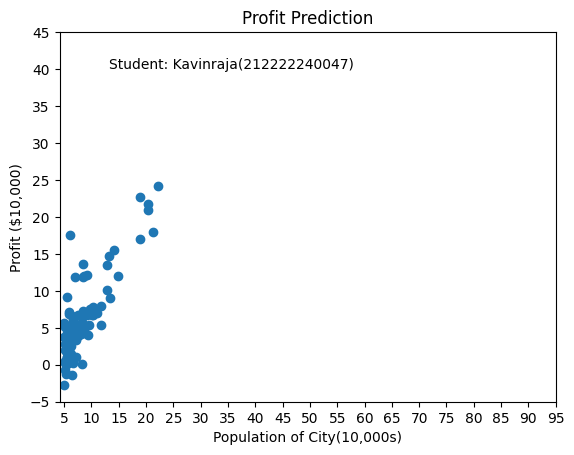
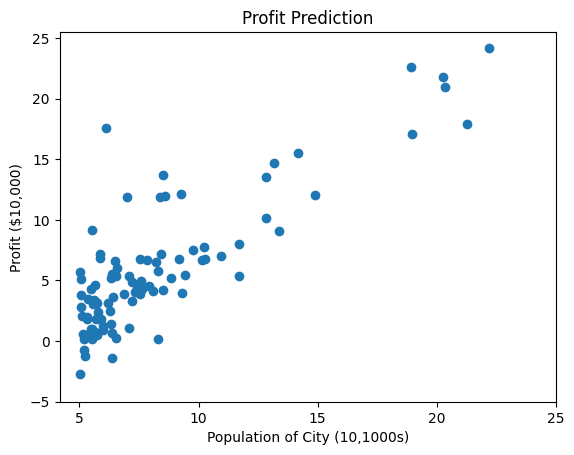
updated

diff --git a/README.md b/README.md
@@ -8,109 +8,157 @@ To write a program to predict the profit of a city using the linear regression m
 2. Anaconda – Python 3.7 Installation / Jupyter notebook
 
 ## Algorithm
-1.Import the required library and read the dataframe.
 
-2.Write a function computeCost to generate the cost function.
+1. Import the standard python libraries for Gradient design.
+2. Introduce the variables needed to execute the function.
+3. Use function for the representation of the graph.
+4. Using for loop apply the concept using the formulae.
+5. Execute the program and plot the graph.
+6. Predict and execute the values for the given conditions.
 
-3.Perform iterations og gradient steps with learning rate.
-
-4.Plot the Cost function using Gradient Descent and generate the required graph.
 
 ## Program:
 ```py
-# Developed by: Kavinraja D
- #RegisterNumber:  212222240047
+## Program to implement the linear regression using gradient descent.
+## Developed by: Thiyagarajan A
+## RegisterNumber:  212222240110
 
-import pandas as pd
 import numpy as np
 import matplotlib.pyplot as plt
-data=pd.read_csv("ex1.txt",header=None)
+import pandas as pd
+
+data=pd.read_csv("/content/ex1.txt",header=None)
+
+print("Profit prediction graph:")
 plt.scatter(data[0],data[1])
 plt.xticks(np.arange(5,30,step=5))
 plt.yticks(np.arange(-5,30,step=5))
-plt.xlabel("Population of City(10,000s)")
+plt.xlabel("Population of City (10,1000s)")
 plt.ylabel("Profit ($10,000)")
 plt.title("Profit Prediction")
 
 def computeCost(X,y,theta):
-    m=len(y) 
-    h=X.dot(theta) 
-    square_err=(h-y)**2
-    return 1/(2*m)*np.sum(square_err) 
+  """
+  Take in a numpy array X,y,theta and generate the cost function in a linear regression model
+  """
+  m=len(y) #length of the training data
+  h=X.dot(theta) #hypothesis
+  square_err=(h-y)**2
 
-data_n=data.values
+  return 1/(2*m) * np.sum(square_err) #returning
+  
+  data_n=data.values
 m=data_n[:,0].size
 X=np.append(np.ones((m,1)),data_n[:,0].reshape(m,1),axis=1)
 y=data_n[:,1].reshape(m,1)
 theta=np.zeros((2,1))
-computeCost(X,y,theta) 
+
+print("Compute cost value:")
+computeCost(X,y,theta) #Call the function
 
 def gradientDescent(X,y,theta,alpha,num_iters):
-    m=len(y)
-    J_history=[] #empty list
-    for i in range(num_iters):
-        predictions=X.dot(theta)
-        error=np.dot(X.transpose(),(predictions-y))
-        descent=alpha*(1/m)*error
-        theta-=descent
-        J_history.append(computeCost(X,y,theta))
-    return theta,J_history
+  """
+  Take in numpy array X,y and theta and update theta by taking number with learning rate of alpha
 
+  return theta and the list of the cost of theta during each iteration
+  """
+  m=len(y)
+  J_history=[]
+
+  for i in range(num_iters):
+    predictions=X.dot(theta)
+    error=np.dot(X.transpose(),(predictions -y))
+    descent=alpha * 1/m * error
+    theta-=descent
+    J_history.append(computeCost(X,y,theta))
+
+  return theta,J_history  
+  
 theta,J_history = gradientDescent(X,y,theta,0.01,1500)
+print("h(x) value:")
 print("h(x) ="+str(round(theta[0,0],2))+" + "+str(round(theta[1,0],2))+"x1")
 
+print("Cost function using Gradient Descent graph:")
 plt.plot(J_history)
 plt.xlabel("Iteration")
 plt.ylabel("$J(\Theta)$")
 plt.title("Cost function using Gradient Descent")
 
+print("Profit prediction graph:")
 plt.scatter(data[0],data[1])
 x_value=[x for x in range(25)]
 y_value=[y*theta[1]+theta[0] for y in x_value]
 plt.plot(x_value,y_value,color="r")
 plt.xticks(np.arange(5,30,step=5))
 plt.yticks(np.arange(-5,30,step=5))
-plt.xlabel("Population of City(10,000s)")
-plt.ylabel("Profit ($10,000)")
+plt.xlabel("Population of City (10,000s)")
+plt.ylabel("profit ($10,000)")
 plt.title("Profit Prediction")
 
 def predict(x,theta):
-    predictions=np.dot(theta.transpose(),x)
-    return predictions[0]
+  """
+  Take in numpy array of x and theta and return the predicted value of y based on theta
+  """
 
+  predictions= np.dot(theta.transpose(),x)
+
+  return predictions[0]
+  
 predict1=predict(np.array([1,3.5]),theta)*10000
-print("For Population = 35000, we predict a profit of $"+str(round(predict1,0)))
+print("Profit for the population 35,000:")
+print("For population = 35,000, we predict a profit of $"+str(round(predict1,0)))
 
 predict2=predict(np.array([1,7]),theta)*10000
-print("For Population = 70000, we predict a profit of $"+str(round(predict2,0)))
+print("Profit for the population 70,000:")
+print("For population = 70,000, we predict a profit of $"+str(round(predict2,0)))
+
+
 ```
 
 ## Output:
-### Profit prediction:
 
-![output](./images/profit%20predict.png)
+### Profit prediction graph:
 
-### Function output:
 
-![output](./images/function.png)
+![predict](https://github.com/A-Thiyagarajan/Implementation-of-Linear-Regression-Using-Gradient-Descent/assets/118707693/673c0ffa-ae7f-4702-8e11-78393b4d8a2d)
 
-### Gradient descent:
-![output](./images/gradient%20.png)
-### Cost function using Gradient Descent:
 
-![output](./images/cost.png)
+### Compute cost value:
 
-### Linear Regression using Profit Prediction:
+![cost](https://github.com/A-Thiyagarajan/Implementation-of-Linear-Regression-Using-Gradient-Descent/assets/118707693/fe50f74a-2f2c-456f-a2b8-44b58ca77e76)
 
-![Screenshot 2023-09-14 083527](https://github.com/SriramS22/Implementation-of-Linear-Regression-Using-Gradient-Descent/assets/119094390/d41d1d08-52d9-4a93-88cf-11ca7fdb544b)
 
-### Profit Prediction for a population of 35000:
 
-![Screenshot 2023-09-14 083537](https://github.com/SriramS22/Implementation-of-Linear-Regression-Using-Gradient-Descent/assets/119094390/43f982a1-bbcc-4910-9ef0-794ff2421d33)
+### h(x) value:
 
-### Profit Prediction for a population of 70000 :
 
-![Screenshot 2023-09-14 083544](https://github.com/SriramS22/Implementation-of-Linear-Regression-Using-Gradient-Descent/assets/119094390/f1cf50b4-0a6e-4d34-bb8f-683c9b6923ab)
+![h(x)](https://github.com/A-Thiyagarajan/Implementation-of-Linear-Regression-Using-Gradient-Descent/assets/118707693/d306795e-1849-4a28-b815-b086ede8eabf)
+
+
+### Cost function using Gradient Descent graph:
+
+![cost_fun](https://github.com/A-Thiyagarajan/Implementation-of-Linear-Regression-Using-Gradient-Descent/assets/118707693/a76d12a7-ba8f-45aa-8490-e9264c013503)
+
+
+
+### Profit prediction graph:
+
+
+![pp](https://github.com/A-Thiyagarajan/Implementation-of-Linear-Regression-Using-Gradient-Descent/assets/118707693/b9ca5e73-3d15-4d12-87b0-e830a3adc08f)
+
+
+
+### Profit for the population 35,000:
+
+
+![p1](https://github.com/A-Thiyagarajan/Implementation-of-Linear-Regression-Using-Gradient-Descent/assets/118707693/74ac0a17-259b-4ce6-9320-32c514484fcc)
+
+
+
+### Profit for the population 70,000:
+
+![p2](https://github.com/A-Thiyagarajan/Implementation-of-Linear-Regression-Using-Gradient-Descent/assets/118707693/7b57e4cd-a671-49c9-9b52-ca83128eaf47)
+
 
 ## Result:
 Thus the program to implement the linear regression using gradient descent is written and verified using python programming.
